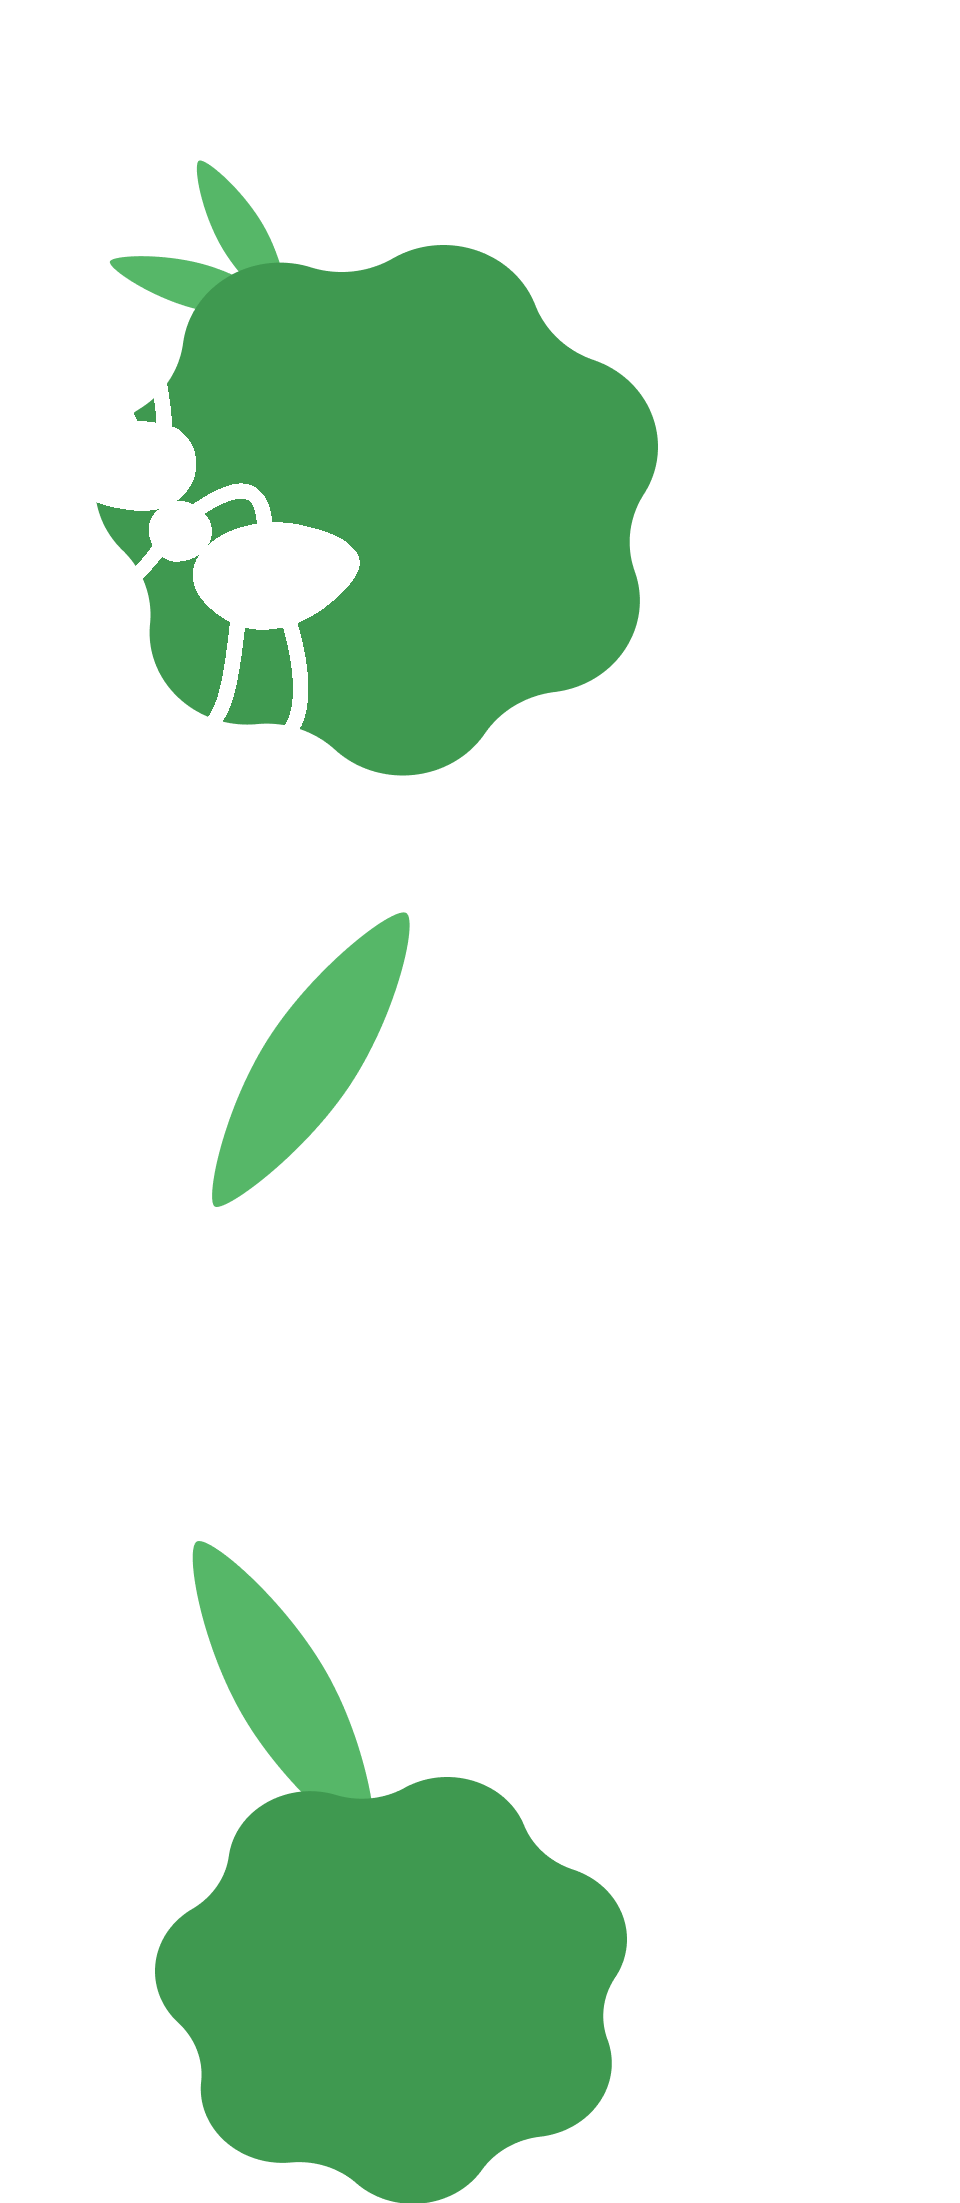
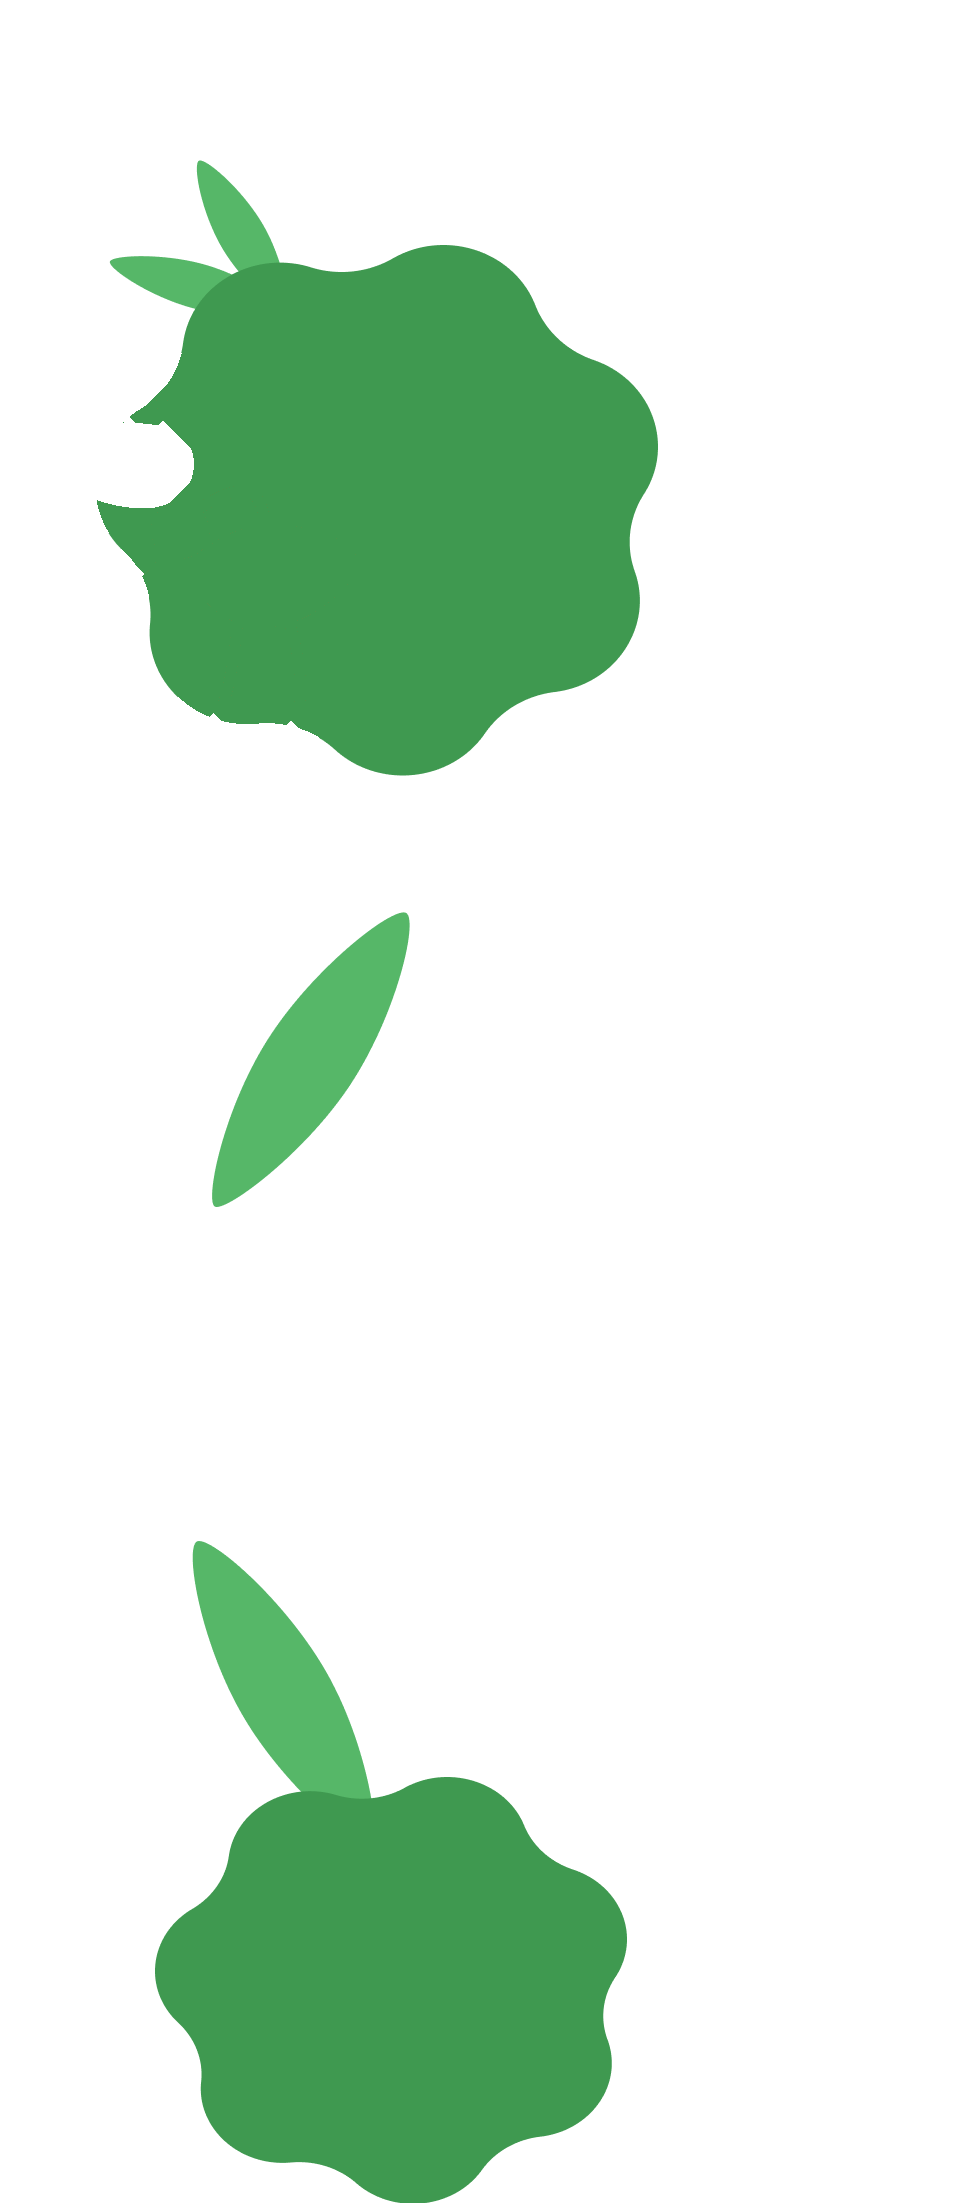
fix(results): clean ant silhouette in left decor PNG + enlarge SVG overlay
The noant decor PNG still showed a darker silhouette where the ant was
masked (antennae, leg outlines, shadow penumbra around the body). The ant
SVG overlay didn't fully cover this — visible as a 'cutout silhouette'
behind the ant.

Repainted the left-decor noant PNG: every non-bush-green pixel inside the
ant bbox region is now either filled with solid bush green (rgb(63,153,80)
— the median bush color) when inside the bush silhouette, or made
transparent when outside it. Bush silhouette derived via closing+fill-holes
on pure bush pixels.

Resized the SVG ant slightly (16.49vw → 18.50vw, shifted left and up) so
its body covers any residual edge shading.

Changed region(s): [[0.125, 0.1543, 0.375, 0.3395]]

diff --git a/results.html b/results.html
@@ -10,7 +10,7 @@
 <link rel="manifest" href="assets/site.webmanifest">
 <link rel="preconnect" href="https://fonts.googleapis.com"><link rel="preconnect" href="https://fonts.gstatic.com" crossorigin>
 <link rel="stylesheet" href="https://fonts.googleapis.com/css2?family=Unbounded:wght@600;700;800&family=Inter:wght@400;500;600;700&display=swap">
-<link rel="stylesheet" href="css/site.css?v=20260528s">
+<link rel="stylesheet" href="css/site.css?v=20260528t">
 </head>
 <body>
 <header class="site-header"><div class="container site-header__inner">
@@ -71,7 +71,7 @@
   </section>
 
   <section class="section section--results-deco">
-    <img class="results-decor results-decor--left" src="assets/results-decor-left-noant.png?v=1" alt="" aria-hidden="true">
+    <img class="results-decor results-decor--left" src="assets/results-decor-left-noant.png?v=2" alt="" aria-hidden="true">
     <img class="results-decor results-decor--right" src="assets/results-decor-right-noant.png?v=1" alt="" aria-hidden="true">
     <svg class="deco-ant deco-ant--left" aria-hidden="true" width="317" height="401" viewBox="0 0 317 401" fill="none" xmlns="http://www.w3.org/2000/svg">
 <path d="M129.89 93.1431C109.716 77.0316 2.58846 81.5955 0.50099 96.4119C-3.76456 126.688 18.815 161.191 83.3674 167.588C147.92 173.984 155.342 113.469 129.89 93.1431Z" fill="#FF5114"/>

diff --git a/css/site.css b/css/site.css
@@ -674,7 +674,7 @@ a.card:hover, a.card-link:hover { color: inherit; }
 .section--results-deco .deco-ant {
   position: absolute; pointer-events: none; user-select: none; z-index: 1; height: auto;
 }
-.section--results-deco .deco-ant--left  { left: 2.60vw;  top: 17.68vw; width: 16.49vw; }
+.section--results-deco .deco-ant--left  { left: 1.40vw;  top: 16.85vw; width: 18.50vw; }
 .section--results-deco .deco-ant--right { right: 1.33vw; top: 29.85vw; width: 18.46vw; }
 @media (max-width: 1024px) { .section--results-deco .deco-ant { display: none; } }
 
